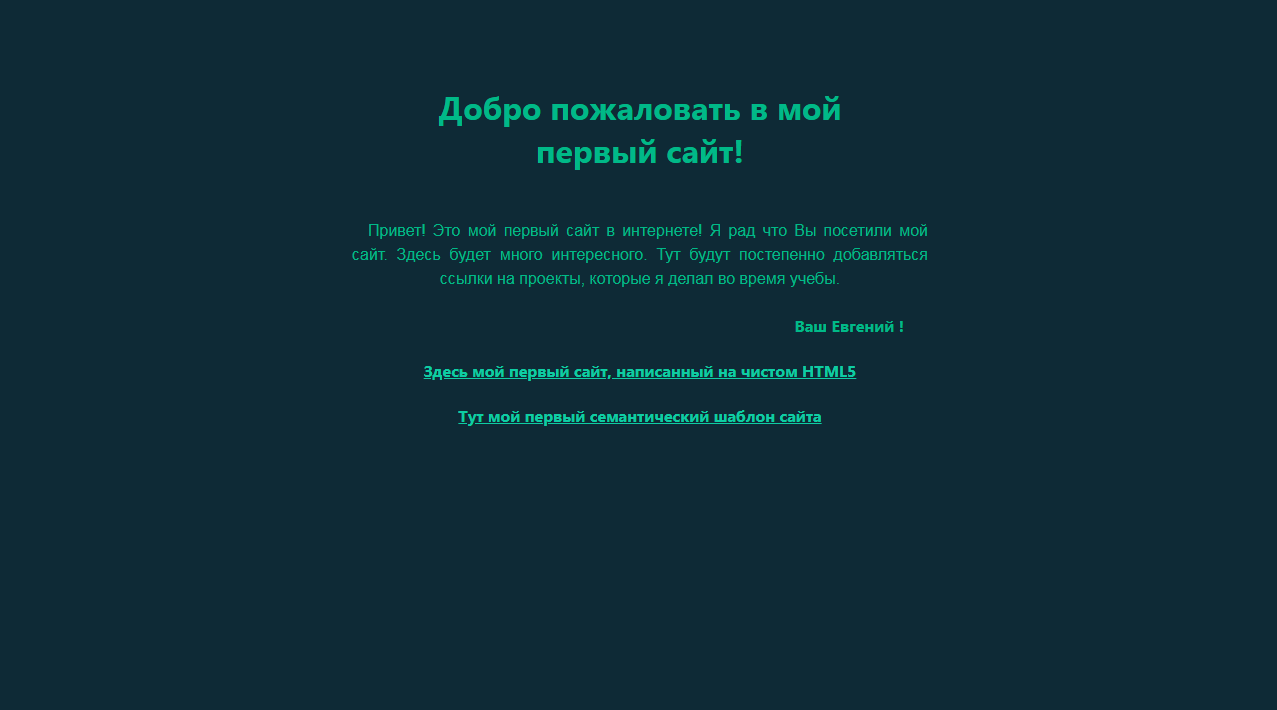
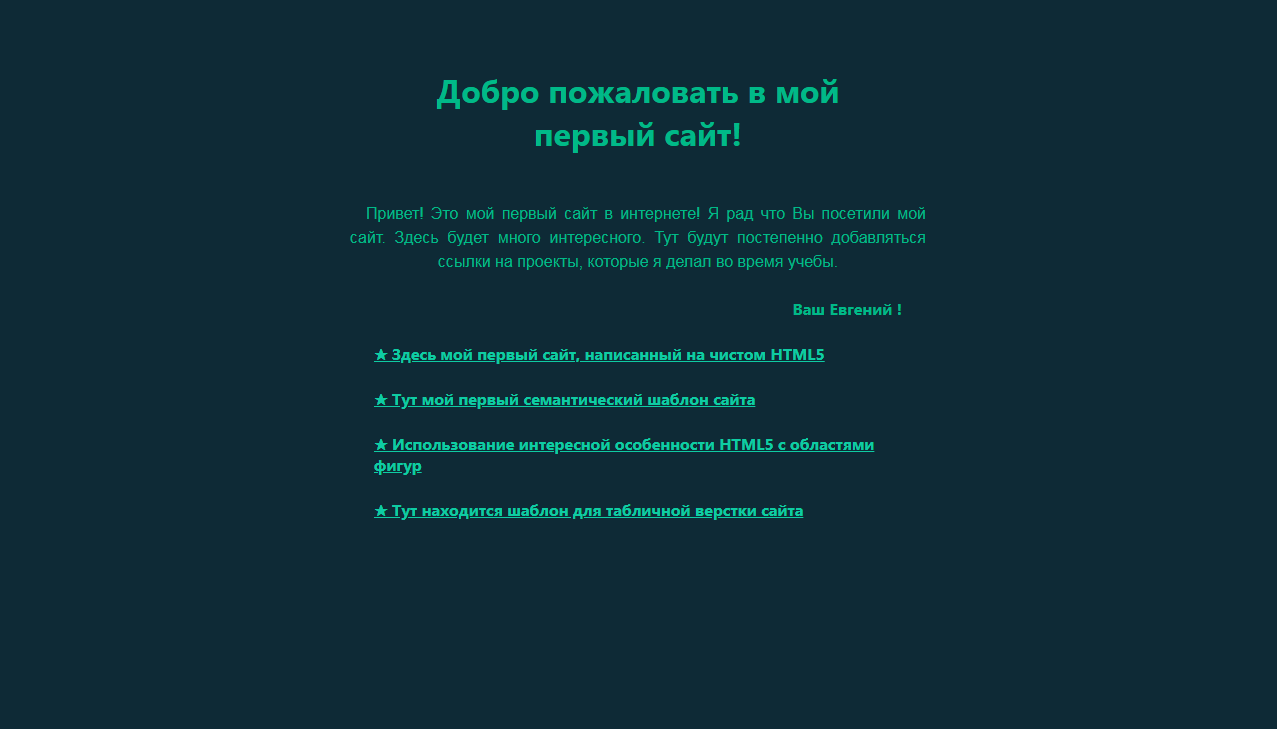
Изменения в сайте. Мои первые шаги

Changed region(s): [[0.2749, 0.2789, 0.733, 0.6507], [0.3359, 0.093, 0.6719, 0.2479], [0.2749, 0.6817, 0.6413, 0.7127]]

diff --git a/site1/index.html b/site1/index.html
@@ -44,7 +44,7 @@
 	<div style="text-align: left;">
         <h4><a href="page2.html">  &#9733 Здесь мой первый сайт, написанный на чистом HTML5</a></h4>
 		<h4><a href="page3.html">  &#9733 Тут мой первый семантический шаблон сайта</a></h4>
-		<h4><a href="page4.html">  &#9733 Использование интересной особенности HTML5 с областями фмгуры </a></h4>
+		<h4><a href="page4.html">  &#9733 Использование интересной особенности HTML5 с областями фигур </a></h4>
 		<h4><a href="page5.html">  &#9733 Тут находится шаблон для табличной верстки сайта</a></h4>
 	</div>
 </body>

diff --git a/index.html b/index.html
@@ -46,7 +46,7 @@
 						</div>
 						<h3>Первые шаги</h3>
 						<p>
-							Мой первые 
+							Мой первые шаги в HTML5 и CSS3. Без JavaScript. Только верстка. Только хардкор. =)
 						</p>
 	
 					</div><!-- .item -->
